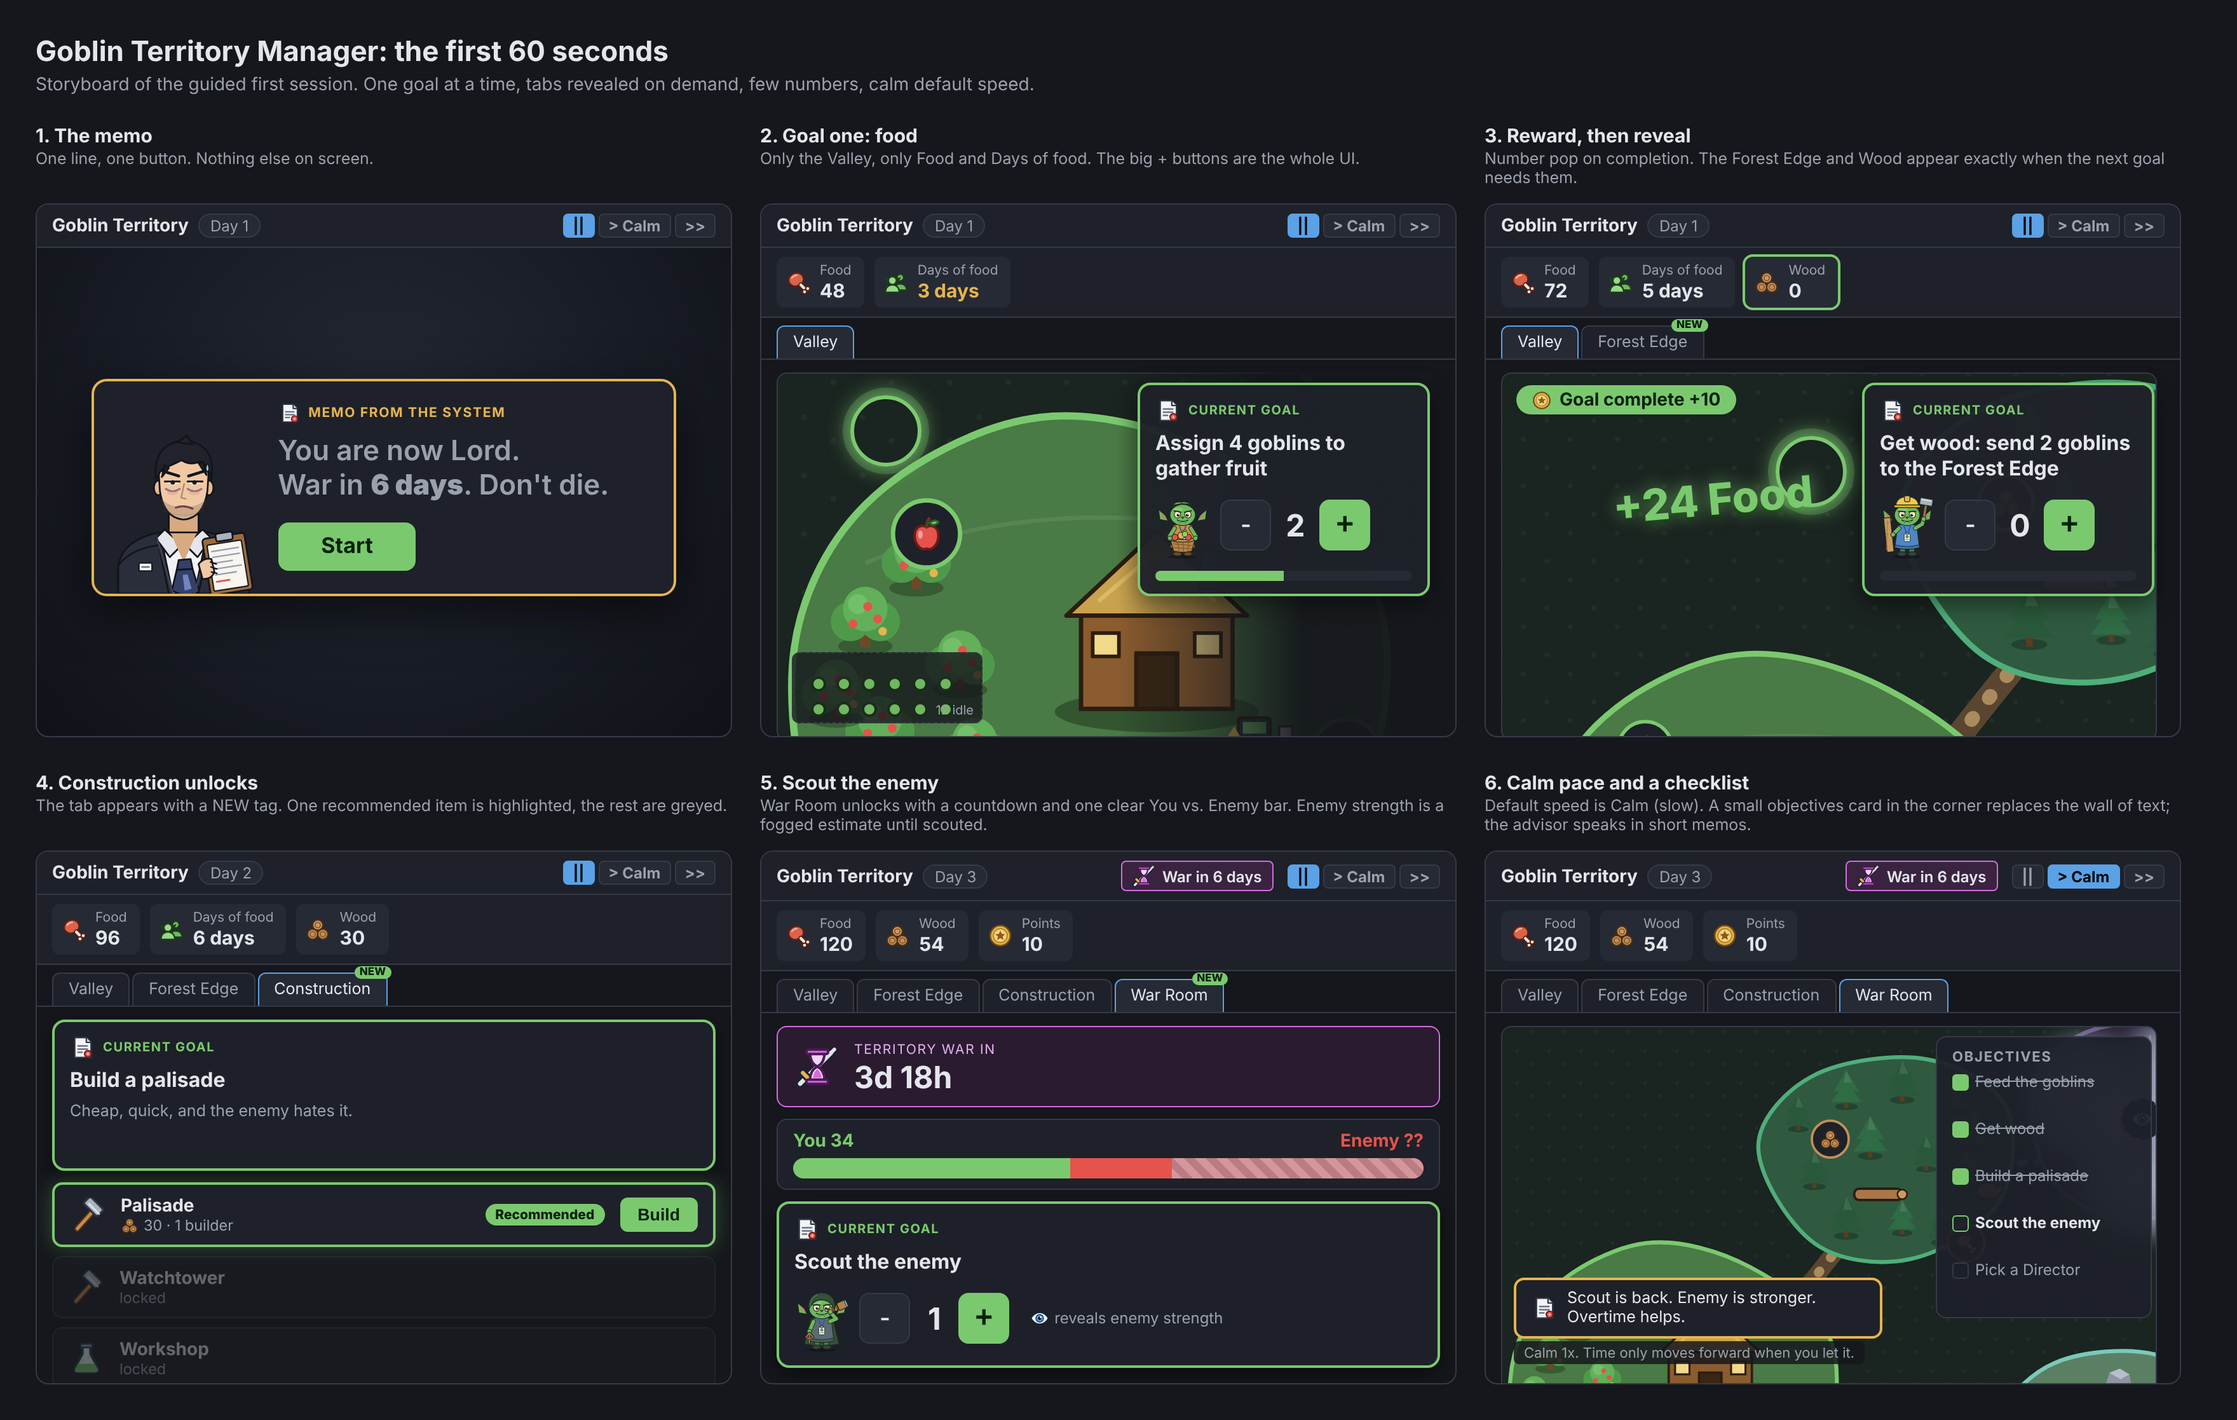
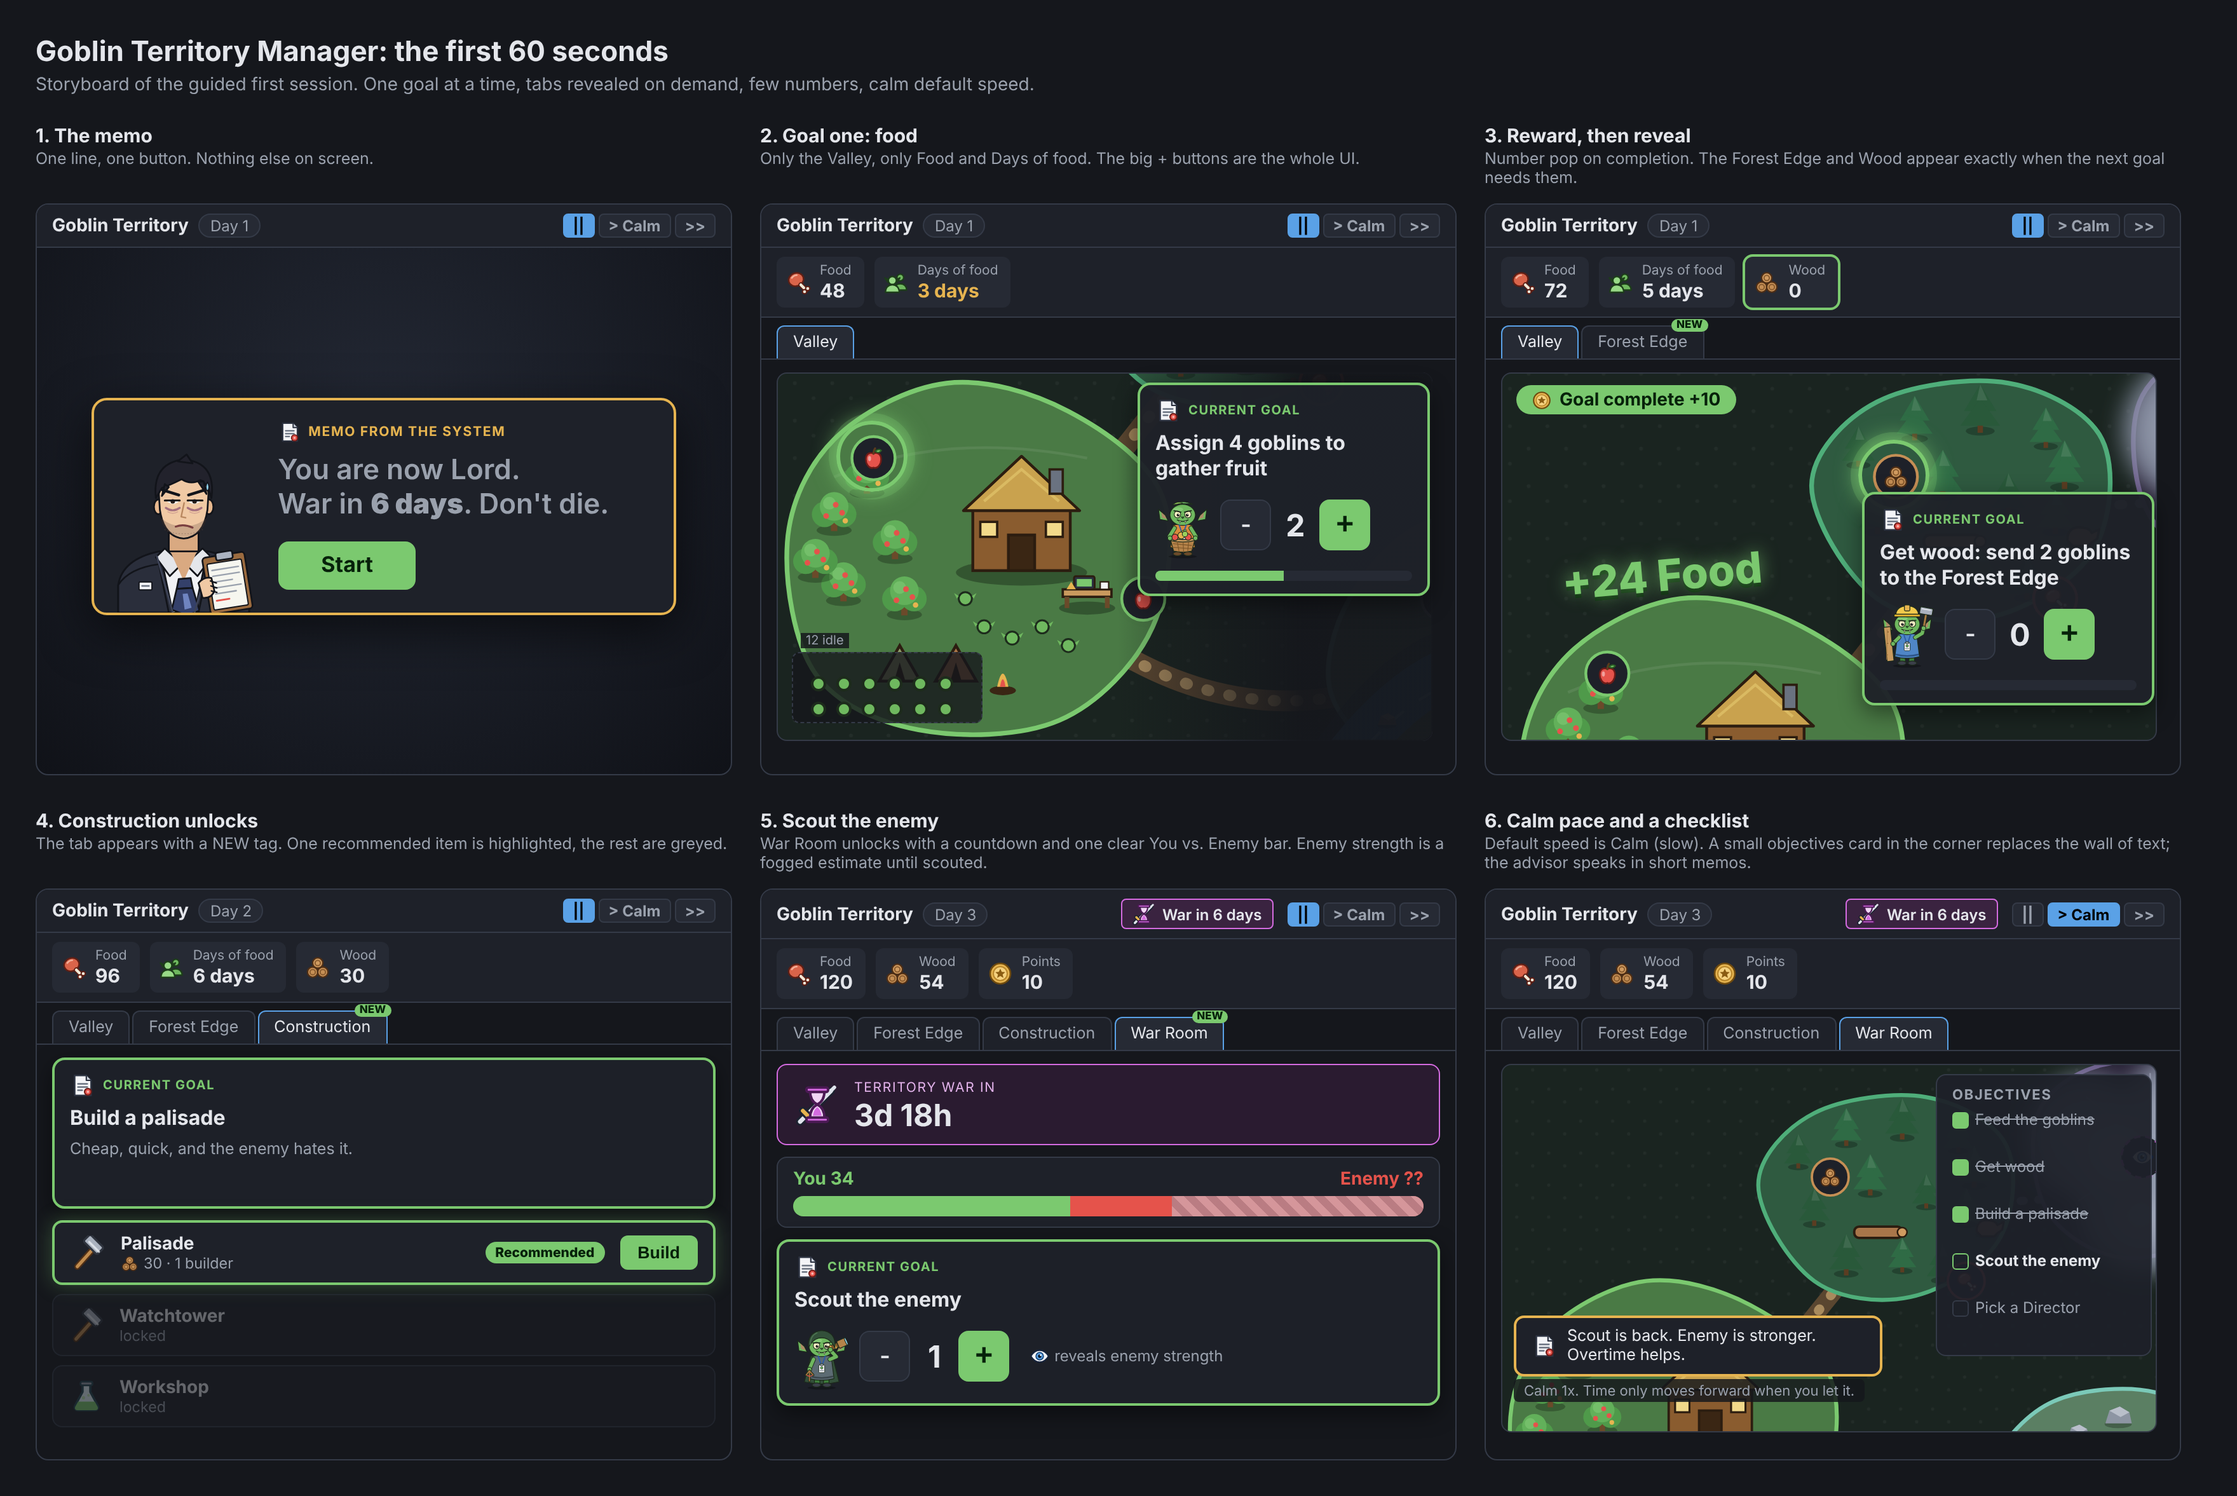
Update art assets and storyboard (WIP)
Claude-Session: https://claude.ai/code/session_01HGSJPtHUiWRLs3tTEwbmuU

diff --git a/projects/goblin-territory-manager/research/assets/first-session-flow.html b/projects/goblin-territory-manager/research/assets/first-session-flow.html
@@ -3,7 +3,7 @@
 h1{margin:0 0 4px;font-size:22px}.sub{color:var(--muted);margin:0 0 22px}
 .grid{display:grid;grid-template-columns:repeat(3,548px);gap:26px 22px}
 .cap h3{margin:0 0 2px;font-size:15px}.cap p{margin:0 0 8px;color:var(--muted);font-size:12.5px;min-height:34px}
-.scr{position:relative;width:548px;height:420px;background:var(--bg);border:1px solid var(--line);border-radius:10px;overflow:hidden}
+.scr{position:relative;width:548px;height:450px;background:var(--bg);border:1px solid var(--line);border-radius:10px;overflow:hidden}
 .scr.dim{background:radial-gradient(circle at 50% 40%,#232834,#101218)}
 .top{display:flex;align-items:center;gap:8px;padding:7px 12px;background:var(--panel);border-bottom:1px solid var(--line)}.ttl{font-weight:700}.sp{flex:1}
 .chip{background:var(--panel2);border:1px solid var(--line);border-radius:10px;padding:1px 8px;font-size:12px;color:var(--muted)}
@@ -18,7 +18,7 @@ h1{margin:0 0 4px;font-size:22px}.sub{color:var(--muted);margin:0 0 22px}
 .body{position:relative;padding:10px 12px;height:290px}.body.col{display:flex;flex-direction:column;gap:9px}
 .map{position:absolute;left:12px;top:10px;width:516px;height:290px;border-radius:8px;border:1px solid var(--line);background-image:url(territory-overview.svg);background-repeat:no-repeat}
 .mask{position:absolute;left:12px;top:10px;width:516px;height:290px;border-radius:8px;background:linear-gradient(90deg,transparent 52%,rgba(21,23,28,.96) 80%)}
-.pen{position:absolute;left:24px;top:230px;width:150px;height:56px;background:rgba(21,23,28,.8);border:1px dashed var(--line);border-radius:6px}.pen small{position:absolute;right:6px;bottom:3px;color:var(--muted);font-size:10px}
+.pen{position:absolute;left:24px;top:230px;width:150px;height:56px;background:rgba(21,23,28,.8);border:1px dashed var(--line);border-radius:6px}.pen small{position:absolute;left:6px;top:-16px;background:rgba(21,23,28,.85);padding:0 4px;color:var(--muted);font-size:10px}
 .g{position:absolute;width:12px;height:12px;border-radius:50%;background:#6fb85f;border:2px solid #1d2b1c;margin:6px 0 0 0}
 .pulse{position:absolute;width:56px;height:56px;border-radius:50%;border:3px solid var(--accent);box-shadow:0 0 0 6px rgba(123,201,111,.25),0 0 18px var(--accent)}
 .side{position:absolute;right:20px;top:18px;width:230px}
@@ -28,12 +28,12 @@ h1{margin:0 0 4px;font-size:22px}.sub{color:var(--muted);margin:0 0 22px}
 .asg{display:flex;align-items:center;gap:8px}.asg img{height:54px}.n{font-size:24px;font-weight:700;min-width:22px;text-align:center}
 .pm{width:40px;height:40px;border-radius:8px;font-size:24px;line-height:1;background:var(--panel2);color:var(--text);border:1px solid var(--line)}.pm.plus{background:var(--accent);color:#06210a;border-color:var(--accent);font-weight:800}
 .bar{height:8px;background:var(--panel2);border-radius:4px;margin-top:9px;overflow:hidden}.bar i{display:block;height:100%;background:var(--accent)}
-.center{display:flex;height:376px;align-items:center;justify-content:center}
+.center{display:flex;height:406px;align-items:center;justify-content:center}
 .memo{display:flex;gap:16px;align-items:flex-end;background:var(--panel);border:2px solid var(--warn);border-radius:12px;padding:16px 22px 18px 12px;box-shadow:0 12px 40px rgba(0,0,0,.6);width:460px}
 .bust{height:140px;margin-bottom:-18px;border-radius:0 0 8px 8px}.from{display:flex;gap:6px;align-items:center;color:var(--warn);font-size:10.5px;font-weight:700;letter-spacing:.08em}
 .memo p{font-size:22px;font-weight:600;margin:8px 0 14px;line-height:1.25}
 .big{background:var(--accent);color:#06210a;border:0;border-radius:8px;font:700 17px system-ui;padding:9px 34px}
-.pop{position:absolute;left:100px;top:90px;font-size:34px;font-weight:800;color:var(--accent);text-shadow:0 0 14px rgba(123,201,111,.7),0 3px 0 #0b2a0e;transform:rotate(-5deg)}
+.side.low{top:auto;bottom:18px}.pop{position:absolute;left:60px;top:150px;font-size:34px;font-weight:800;color:var(--accent);text-shadow:0 0 14px rgba(123,201,111,.7),0 3px 0 #0b2a0e;transform:rotate(-5deg)}
 .done{position:absolute;left:24px;top:20px;background:var(--accent);color:#06210a;border-radius:20px;padding:3px 12px;font-weight:700;display:flex;gap:6px;align-items:center}
 .list{display:flex;flex-direction:column;gap:7px}.it{display:flex;align-items:center;gap:12px;background:var(--panel);border:1px solid var(--line);border-radius:8px;padding:8px 12px}.it b{display:block}.it small{color:var(--muted);display:flex;gap:4px;align-items:center}
 .it.off{opacity:.38}.it.rec{border:2px solid var(--accent);box-shadow:0 0 16px rgba(123,201,111,.3)}.it>div{flex:1}
@@ -63,10 +63,10 @@ h1{margin:0 0 4px;font-size:22px}.sub{color:var(--muted);margin:0 0 22px}
 
 <h1>Goblin Territory Manager: the first 60 seconds</h1><p class="sub">Storyboard of the guided first session. One goal at a time, tabs revealed on demand, few numbers, calm default speed.</p>
 <div class="grid"><div class="cap"><h3>1. The memo</h3><p>One line, one button. Nothing else on screen.</p><div class="scr dim"><div class="top"><span class="ttl">Goblin Territory</span><span class="chip">Day 1</span><span class="sp"></span><span class="speed"><b class="on">||</b><b class="">&gt; Calm</b><b>&gt;&gt;</b></span></div><div class="center"><div class="memo"><img src="char-manager-oh.svg" class="bust"><div><div class="from"><svg class="ic" width="18" height="18"><use href="#i-memo"/></svg> MEMO FROM THE SYSTEM</div><p>You are now Lord.<br>War in <b>6 days</b>. Don't die.</p><button class="big">Start</button></div></div></div></div></div><div class="cap"><h3>2. Goal one: food</h3><p>Only the Valley, only Food and Days of food. The big + buttons are the whole UI.</p><div class="scr"><div class="top"><span class="ttl">Goblin Territory</span><span class="chip">Day 1</span><span class="sp"></span><span class="speed"><b class="on">||</b><b class="">&gt; Calm</b><b>&gt;&gt;</b></span></div><div class="res"><div class="r "><svg class="ic" width="20" height="20"><use href="#i-meat"/></svg><div><small>Food</small><strong>48</strong></div></div><div class="r warn"><svg class="ic" width="20" height="20"><use href="#i-pop"/></svg><div><small>Days of food</small><strong>3 days</strong></div></div></div><div class="tabs"><span class="on">Valley</span></div>
-<div class="body"><div class="map" style="background-size:1376px 917.3333333333334px;background-position:-126.13333333333334px -344px"></div><div class="mask"></div><div class="pen"><i class="g" style="left:14px;top:12px"></i><i class="g" style="left:34px;top:12px"></i><i class="g" style="left:54px;top:12px"></i><i class="g" style="left:74px;top:12px"></i><i class="g" style="left:94px;top:12px"></i><i class="g" style="left:114px;top:12px"></i><i class="g" style="left:14px;top:32px"></i><i class="g" style="left:34px;top:32px"></i><i class="g" style="left:54px;top:32px"></i><i class="g" style="left:74px;top:32px"></i><i class="g" style="left:94px;top:32px"></i><i class="g" style="left:114px;top:32px"></i><small>12 idle</small></div><div class="pulse" style="left:70px;top:28px"></div>
+<div class="body"><div class="map" style="background-size:884.5714285714286px 589.7142857142857px;background-position:-81.08571428571427px -235.88571428571427px"></div><div class="mask"></div><div class="pen"><i class="g" style="left:14px;top:12px"></i><i class="g" style="left:34px;top:12px"></i><i class="g" style="left:54px;top:12px"></i><i class="g" style="left:74px;top:12px"></i><i class="g" style="left:94px;top:12px"></i><i class="g" style="left:114px;top:12px"></i><i class="g" style="left:14px;top:32px"></i><i class="g" style="left:34px;top:32px"></i><i class="g" style="left:54px;top:32px"></i><i class="g" style="left:74px;top:32px"></i><i class="g" style="left:94px;top:32px"></i><i class="g" style="left:114px;top:32px"></i><small>12 idle</small></div><div class="pulse" style="left:59px;top:48px"></div>
 <div class="side"><div class="goal"><div class="gh"><svg class="ic" width="20" height="20"><use href="#i-memo"/></svg><small>CURRENT GOAL</small></div><h4>Assign 4 goblins to gather fruit</h4><div class="asg"><img src="char-goblin-gatherer.svg"><button class="pm">-</button><span class="n">2</span><button class="pm plus">+</button></div><div class="bar"><i style="width:50%"></i></div></div></div></div></div></div><div class="cap"><h3>3. Reward, then reveal</h3><p>Number pop on completion. The Forest Edge and Wood appear exactly when the next goal needs them.</p><div class="scr"><div class="top"><span class="ttl">Goblin Territory</span><span class="chip">Day 1</span><span class="sp"></span><span class="speed"><b class="on">||</b><b class="">&gt; Calm</b><b>&gt;&gt;</b></span></div><div class="res"><div class="r "><svg class="ic" width="20" height="20"><use href="#i-meat"/></svg><div><small>Food</small><strong>72</strong></div></div><div class="r "><svg class="ic" width="20" height="20"><use href="#i-pop"/></svg><div><small>Days of food</small><strong>5 days</strong></div></div><div class="r new"><svg class="ic" width="20" height="20"><use href="#i-wood"/></svg><div><small>Wood</small><strong>0</strong></div></div></div><div class="tabs"><span class="on">Valley</span><span class="new">Forest Edge</span></div>
-<div class="body"><div class="map" style="background-size:1105.7142857142856px 737.1428571428571px;background-position:-82.92857142857143px -82.92857142857143px"></div><div class="pop">+24 Food</div><div class="done"><svg class="ic" width="16" height="16"><use href="#i-points"/></svg> Goal complete +10</div><div class="pulse" style="left:228px;top:60px"></div>
-<div class="side"><div class="goal"><div class="gh"><svg class="ic" width="20" height="20"><use href="#i-memo"/></svg><small>CURRENT GOAL</small></div><h4>Get wood: send 2 goblins to the Forest Edge</h4><div class="asg"><img src="char-goblin-builder.svg"><button class="pm">-</button><span class="n">0</span><button class="pm plus">+</button></div><div class="bar"><i style="width:0%"></i></div></div></div></div></div></div><div class="cap"><h3>4. Construction unlocks</h3><p>The tab appears with a NEW tag. One recommended item is highlighted, the rest are greyed.</p><div class="scr"><div class="top"><span class="ttl">Goblin Territory</span><span class="chip">Day 2</span><span class="sp"></span><span class="speed"><b class="on">||</b><b class="">&gt; Calm</b><b>&gt;&gt;</b></span></div><div class="res"><div class="r "><svg class="ic" width="20" height="20"><use href="#i-meat"/></svg><div><small>Food</small><strong>96</strong></div></div><div class="r "><svg class="ic" width="20" height="20"><use href="#i-pop"/></svg><div><small>Days of food</small><strong>6 days</strong></div></div><div class="r "><svg class="ic" width="20" height="20"><use href="#i-wood"/></svg><div><small>Wood</small><strong>30</strong></div></div></div><div class="tabs"><span class="">Valley</span><span class="">Forest Edge</span><span class="on new">Construction</span></div>
+<div class="body"><div class="map" style="background-size:884.5714285714286px 589.7142857142857px;background-position:-73.71428571428571px -66.34285714285714px"></div><div class="pop">+24 Food</div><div class="done"><svg class="ic" width="16" height="16"><use href="#i-points"/></svg> Goal complete +10</div><div class="pulse" style="left:293px;top:63px"></div>
+<div class="side low"><div class="goal"><div class="gh"><svg class="ic" width="20" height="20"><use href="#i-memo"/></svg><small>CURRENT GOAL</small></div><h4>Get wood: send 2 goblins to the Forest Edge</h4><div class="asg"><img src="char-goblin-builder.svg"><button class="pm">-</button><span class="n">0</span><button class="pm plus">+</button></div><div class="bar"><i style="width:0%"></i></div></div></div></div></div></div><div class="cap"><h3>4. Construction unlocks</h3><p>The tab appears with a NEW tag. One recommended item is highlighted, the rest are greyed.</p><div class="scr"><div class="top"><span class="ttl">Goblin Territory</span><span class="chip">Day 2</span><span class="sp"></span><span class="speed"><b class="on">||</b><b class="">&gt; Calm</b><b>&gt;&gt;</b></span></div><div class="res"><div class="r "><svg class="ic" width="20" height="20"><use href="#i-meat"/></svg><div><small>Food</small><strong>96</strong></div></div><div class="r "><svg class="ic" width="20" height="20"><use href="#i-pop"/></svg><div><small>Days of food</small><strong>6 days</strong></div></div><div class="r "><svg class="ic" width="20" height="20"><use href="#i-wood"/></svg><div><small>Wood</small><strong>30</strong></div></div></div><div class="tabs"><span class="">Valley</span><span class="">Forest Edge</span><span class="on new">Construction</span></div>
 <div class="body col"><div class="goal"><div class="gh"><svg class="ic" width="20" height="20"><use href="#i-memo"/></svg><small>CURRENT GOAL</small></div><h4>Build a palisade</h4><p class="m">Cheap, quick, and the enemy hates it.</p></div>
 <div class="list"><div class="it rec"><svg class="ic" width="28" height="28"><use href="#i-build"/></svg><div><b>Palisade</b><small><svg class="ic" width="14" height="14"><use href="#i-wood"/></svg> 30 &middot; 1 builder</small></div><span class="tag">Recommended</span><button class="plusb">Build</button></div><div class="it off"><svg class="ic" width="28" height="28"><use href="#i-build"/></svg><div><b>Watchtower</b><small>locked</small></div></div><div class="it off"><svg class="ic" width="28" height="28"><use href="#i-research"/></svg><div><b>Workshop</b><small>locked</small></div></div></div></div></div></div><div class="cap"><h3>5. Scout the enemy</h3><p>War Room unlocks with a countdown and one clear You vs. Enemy bar. Enemy strength is a fogged estimate until scouted.</p><div class="scr"><div class="top"><span class="ttl">Goblin Territory</span><span class="chip">Day 3</span><span class="sp"></span><span class="war"><svg class="ic" width="18" height="18"><use href="#i-war"/></svg> War in 6 days</span><span class="speed"><b class="on">||</b><b class="">&gt; Calm</b><b>&gt;&gt;</b></span></div><div class="res"><div class="r "><svg class="ic" width="20" height="20"><use href="#i-meat"/></svg><div><small>Food</small><strong>120</strong></div></div><div class="r "><svg class="ic" width="20" height="20"><use href="#i-wood"/></svg><div><small>Wood</small><strong>54</strong></div></div><div class="r "><svg class="ic" width="20" height="20"><use href="#i-points"/></svg><div><small>Points</small><strong>10</strong></div></div></div><div class="tabs"><span class="">Valley</span><span class="">Forest Edge</span><span class="">Construction</span><span class="on new">War Room</span></div>
 <div class="body col"><div class="cd"><svg class="ic" width="34" height="34"><use href="#i-war"/></svg><div><small>TERRITORY WAR IN</small><strong>3d 18h</strong></div></div>
